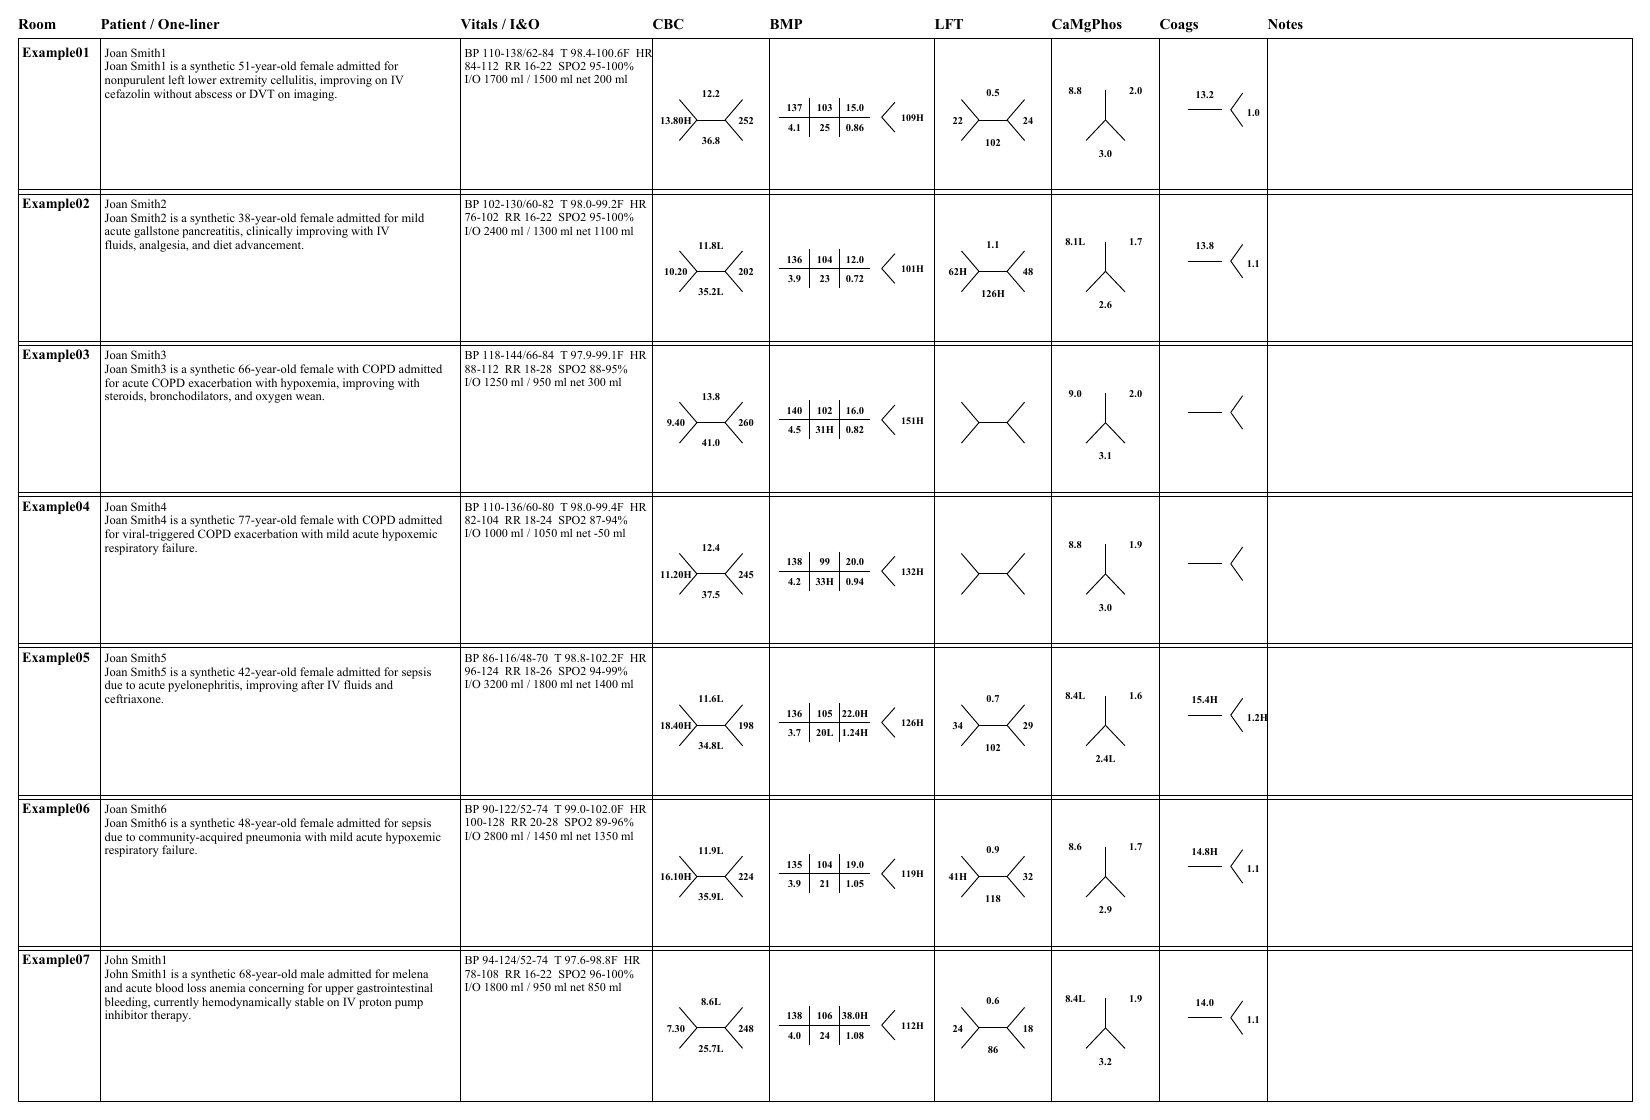
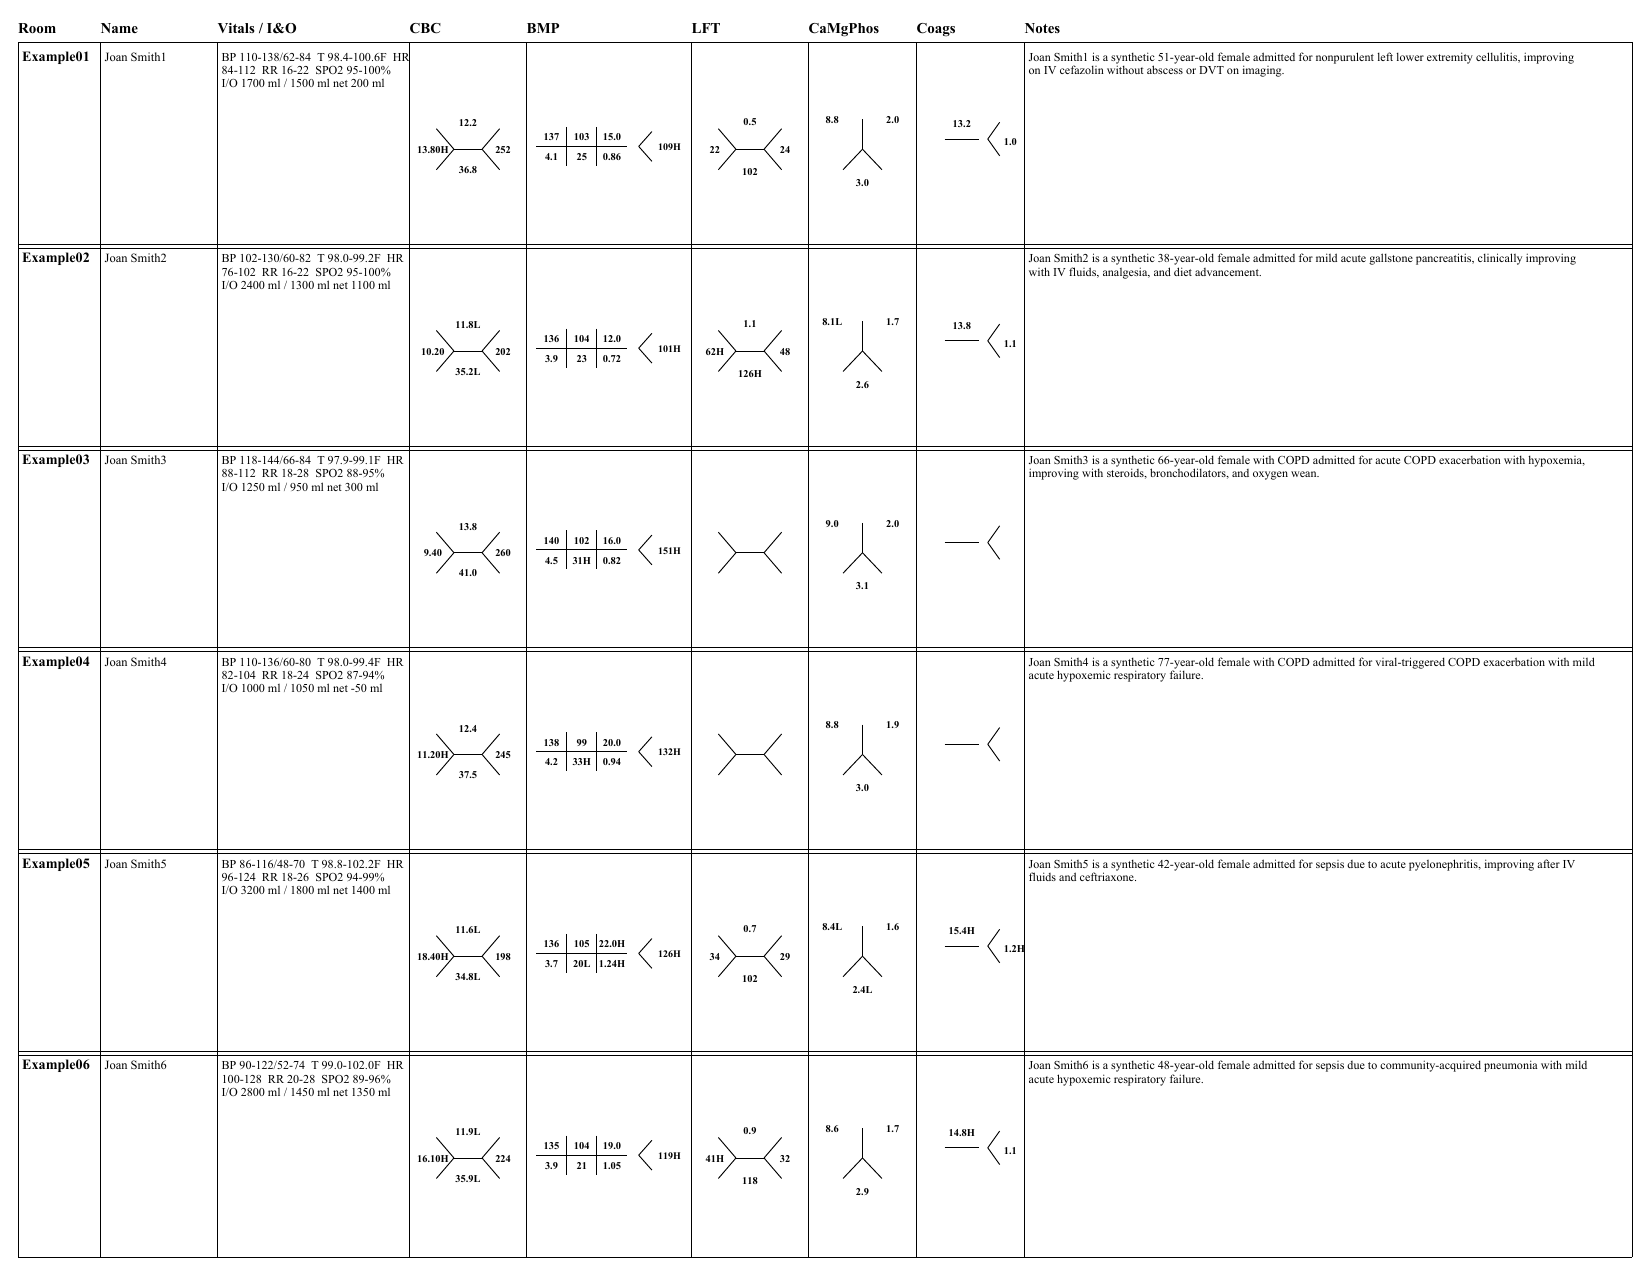
update

diff --git a/roundingsheet/pdf_renderer.py b/roundingsheet/pdf_renderer.py
@@ -249,7 +249,7 @@ def draw_coag_cell(c, x, y_top, w, h, labs, font_scale=1.0):
 def draw_header(c, y, col_x, font_scale=1.0):
     headers = [
         "Room",
-        "Patient / One-liner",
+        "Name",
         "Vitals / I&O",
         "CBC",
         "BMP",
@@ -279,7 +279,7 @@ def render_rounding_sheet(patient_records, output_pdf: Path, patients_per_page=8
     usable_w = page_w - 2 * margin
     fixed_w = [
         0.55 * inch,
-        2.40 * inch,
+        0.78 * inch,
         1.28 * inch,
         0.78 * inch,
         1.10 * inch,
@@ -326,10 +326,9 @@ def render_rounding_sheet(patient_records, output_pdf: Path, patients_per_page=8
 
         draw_room_text(c, patient.room, col_x[0] + 2, y - cell_top_padding, col_w[0] - 4, font_scale=font_scale)
 
-        patient_text = f"{patient.patient_name}\n{patient.oneliner}".strip()
         draw_wrapped_text(
             c,
-            patient_text,
+            patient.patient_name,
             col_x[1] + 2,
             y - cell_top_padding,
             col_w[1] - 4,

diff --git a/roundingsheet/make_rounding_sheet_from_text.py b/roundingsheet/make_rounding_sheet_from_text.py
@@ -301,14 +301,15 @@ def parse_labs(text: str, today=None) -> dict:
 def parse_note(path: Path):
     text = read_note(path)
     today = parse_today_date(text)
+    oneliner = parse_oneliner(text)
     return {
         "room": parse_room(text),
         "patient_name": parse_patient_name(text),
-        "oneliner": parse_oneliner(text),
+        "oneliner": oneliner,
         "vitals_summary": parse_vitals(text),
         "io_summary": parse_intake_output(text),
         "labs": parse_labs(text, today=today),
-        "notes": "",
+        "notes": oneliner,
     }
 
 
